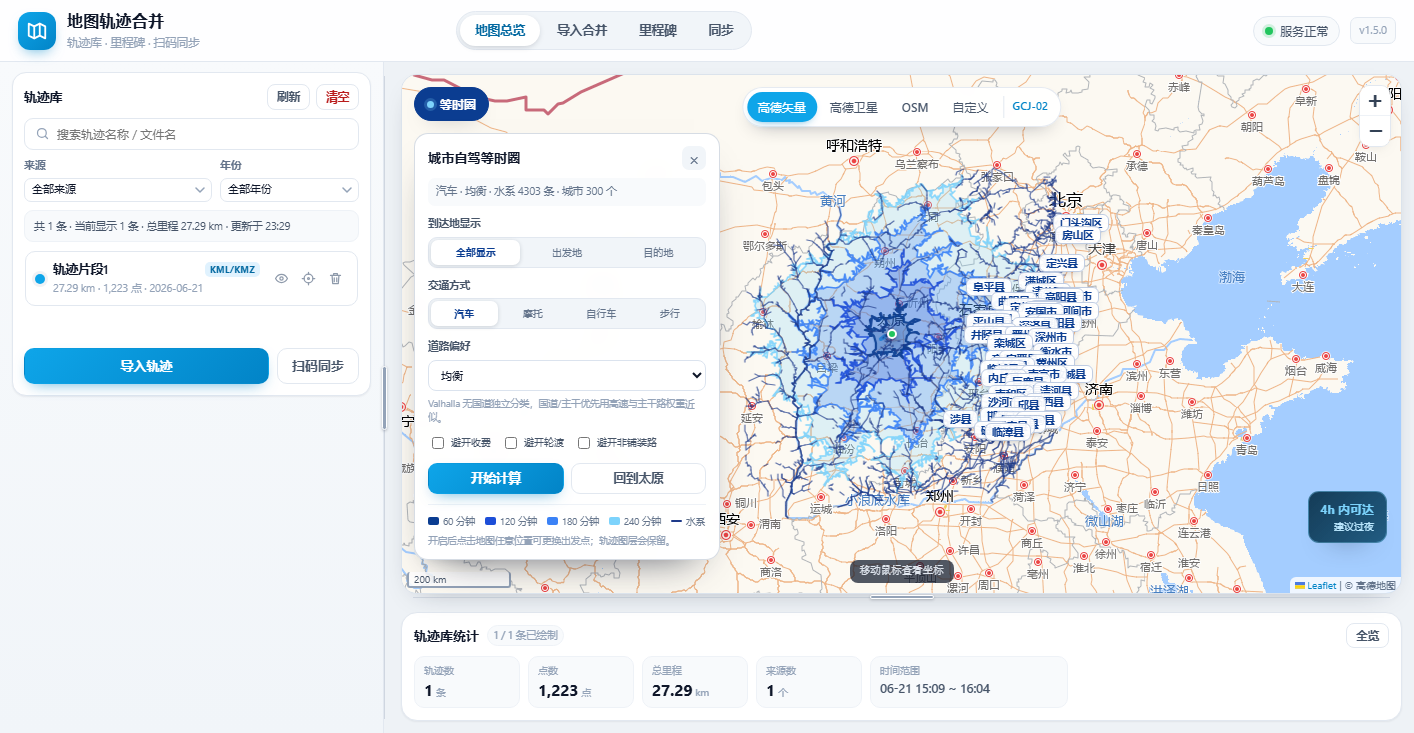
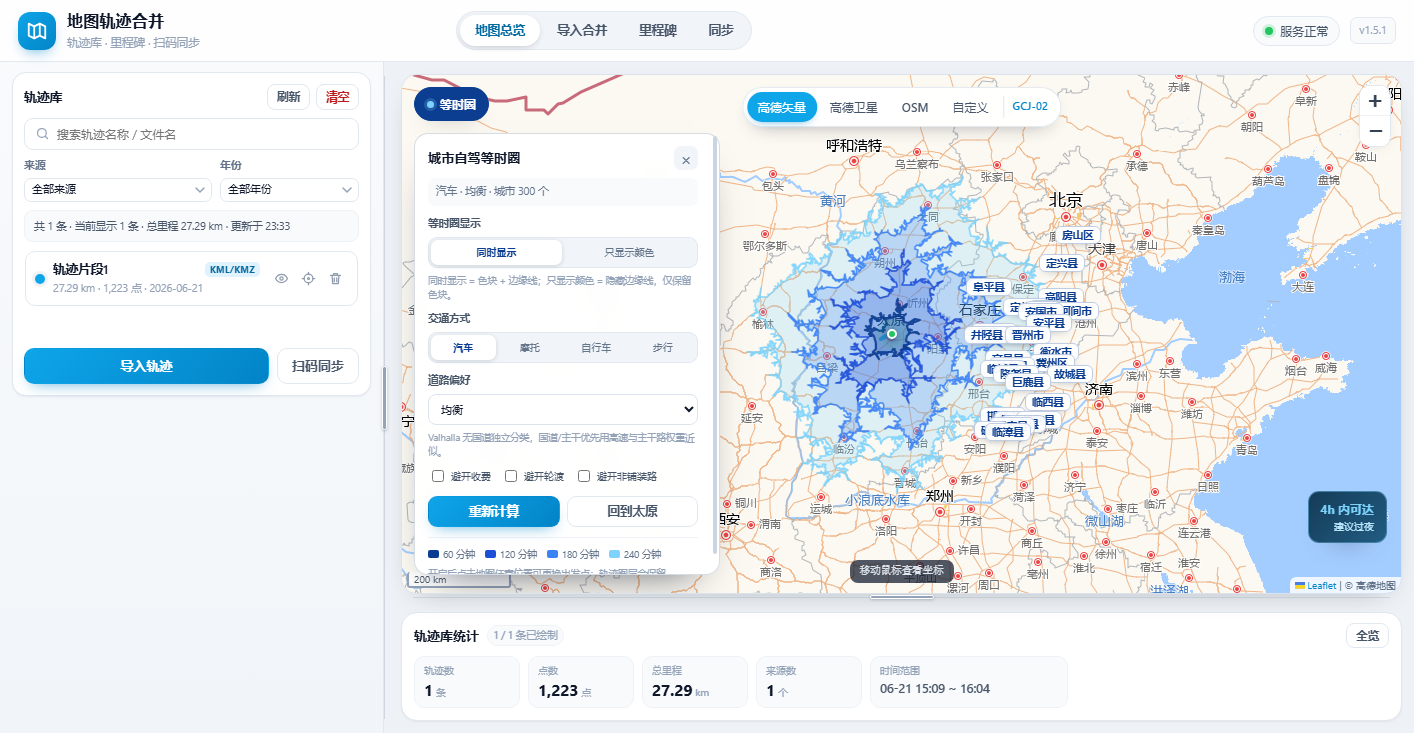
style: 隐藏水系并优化等时圈颜色/边缘渲染（v1.5.1）

Changed region(s): [[0.2801, 0.2401, 0.7779, 0.8104], [0.3423, 0.2401, 0.4356, 0.2701], [0.4979, 0.3302, 0.529, 0.3602]]

diff --git a/web/isochrone-overlay.js b/web/isochrone-overlay.js
@@ -19,9 +19,8 @@
     avoidTolls: false,
     avoidFerries: false,
     avoidUnpaved: false,
-    displayMode: "all",
+    renderMode: "both",
     isoLayers: [],
-    waterLayer: null,
     cityLayer: null,
     startMarker: null,
     cityFeatures: [],
@@ -67,10 +66,10 @@
   }
 
   function readSettings() {
-    var display = document.querySelector('input[name="ovDisplayMode"]:checked');
+    var render = document.querySelector('input[name="ovRenderMode"]:checked');
     var mode = document.querySelector('input[name="ovTravelMode"]:checked');
     var road = $("ovRoadPref");
-    if (display) state.displayMode = display.value;
+    if (render) state.renderMode = render.value;
     if (mode) state.mode = mode.value;
     if (road) state.roadPref = road.value;
     state.avoidTolls = !!($("ovAvoidTolls") && $("ovAvoidTolls").checked);
@@ -143,10 +142,6 @@
     if (!map) return;
     state.isoLayers.forEach(function (layer) { if (map.hasLayer(layer)) map.removeLayer(layer); });
     state.isoLayers = [];
-    if (state.waterLayer) {
-      if (map.hasLayer(state.waterLayer)) map.removeLayer(state.waterLayer);
-      state.waterLayer = null;
-    }
     if (state.cityLayer) {
       if (map.hasLayer(state.cityLayer)) map.removeLayer(state.cityLayer);
       state.cityLayer = null;
@@ -155,25 +150,6 @@
       if (map.hasLayer(state.startMarker)) map.removeLayer(state.startMarker);
       state.startMarker = null;
     }
-  }
-
-  function setLayerVisible(layer, visible) {
-    var map = getMap();
-    if (!map || !layer) return;
-    if (visible) {
-      if (!map.hasLayer(layer)) map.addLayer(layer);
-    } else if (map.hasLayer(layer)) {
-      map.removeLayer(layer);
-    }
-  }
-
-  function applyDisplayMode() {
-    var showIso = state.displayMode !== "origin";
-    var showOrigin = state.displayMode !== "destination";
-    state.isoLayers.forEach(function (layer) { setLayerVisible(layer, showIso); });
-    setLayerVisible(state.waterLayer, showIso);
-    setLayerVisible(state.cityLayer, showIso);
-    setLayerVisible(state.startMarker, showOrigin);
   }
 
   function drawStartMarker() {
@@ -206,13 +182,15 @@
     MINUTES.slice().sort(function (a, b) { return b - a; }).forEach(function (minutes) {
       var list = byMinutes[minutes];
       if (!list || !list.length) return;
+      var colorOnly = state.renderMode === "color";
       var layer = L.geoJSON(
         { type: "FeatureCollection", features: list },
         {
           style: {
+            stroke: !colorOnly,
             color: COLORS[minutes],
-            weight: minutes === 60 ? 2.2 : 1.6,
-            opacity: 0.92,
+            weight: colorOnly ? 0 : (minutes === 60 ? 2.2 : 1.6),
+            opacity: colorOnly ? 0 : 0.92,
             fillColor: COLORS[minutes],
             fillOpacity: 0.23
           }
@@ -220,15 +198,6 @@
       ).addTo(map);
       state.isoLayers.push(layer);
     });
-  }
-
-  function drawWater(features) {
-    var map = getMap();
-    if (!map || !features.length) return;
-    state.waterLayer = L.geoJSON(
-      { type: "FeatureCollection", features: features.map(convertFeature) },
-      { style: { color: "#1e3a8a", weight: 1.25, opacity: 0.7 } }
-    ).addTo(map);
   }
 
   function drawCities(features) {
@@ -244,7 +213,7 @@
     if (zoom < 7.5) {
       list = features.filter(function (f) { return f.properties && f.properties.place === "city"; });
     }
-    list = list.slice(0, zoom < 7.5 ? 50 : 160);
+    list = list.slice(0, zoom < 7.5 ? 30 : 110);
     var markers = [];
     list.forEach(function (feature) {
       var geometry = feature.geometry || {};
@@ -275,13 +244,10 @@
     clearLayers();
     var features = Array.isArray(data.features) ? data.features : [];
     var iso = features.filter(function (f) { return f.properties && f.properties.layer === "isochrone"; });
-    var water = features.filter(function (f) { return f.properties && f.properties.layer === "water"; });
     var cities = features.filter(function (f) { return f.properties && f.properties.layer === "city"; });
     drawIsochrone(iso);
-    drawWater(water);
     drawCities(cities);
     drawStartMarker();
-    applyDisplayMode();
 
     if (fit && data.meta && data.meta.bbox && data.meta.bbox.length === 4) {
       var a = toDisplay(data.meta.bbox[0], data.meta.bbox[1]);
@@ -293,7 +259,7 @@
     setStatus(
       (meta.mode_label || MODE_LABELS[state.mode]) +
         (motorized() ? " · " + (ROAD_LABELS[state.roadPref] || "") : "") +
-        " · 水系 " + (meta.water_count || 0) + " 条 · 城市 " + (meta.city_count || 0) + " 个",
+        " · 城市 " + (meta.city_count || 0) + " 个",
       "ok"
     );
     var badge = $("isoBadge");
@@ -323,7 +289,8 @@
         road_pref: state.roadPref,
         avoid_tolls: state.avoidTolls,
         avoid_ferries: state.avoidFerries,
-        avoid_unpaved: state.avoidUnpaved
+        avoid_unpaved: state.avoidUnpaved,
+        include_water: false
       })
     })
       .then(function (response) {
@@ -372,7 +339,6 @@
         state.lat = wgs[1];
         if (state.startMarker) map.removeLayer(state.startMarker);
         drawStartMarker();
-        applyDisplayMode();
         fetchIsochrone(true);
       });
       state.clickBound = true;
@@ -430,10 +396,12 @@
       fetchIsochrone(true);
     });
 
-    document.querySelectorAll('input[name="ovDisplayMode"]').forEach(function (input) {
+    document.querySelectorAll('input[name="ovRenderMode"]').forEach(function (input) {
       input.addEventListener("change", function () {
         readSettings();
-        applyDisplayMode();
+        if (state.open && state.raw) {
+          render(state.raw, false);
+        }
       });
     });
     document.querySelectorAll('input[name="ovTravelMode"]').forEach(function (input) {
@@ -460,7 +428,6 @@
 
     map.on("zoomend", function () {
       if (state.open && state.cityFeatures.length) drawCities(state.cityFeatures);
-      if (state.open) applyDisplayMode();
     });
 
     // 底图切换会改变显示坐标系（GCJ-02 / WGS-84），需要重新投影等时圈

diff --git a/web/index.html b/web/index.html
@@ -124,15 +124,15 @@
                 <strong>城市自驾等时圈</strong>
                 <button type="button" class="ov-iso-close" id="btnIsoClose" aria-label="关闭等时圈">×</button>
               </div>
-              <div class="ov-iso-status" id="isoStatus">点击“开始计算”在轨迹地图上叠加等时圈</div>
+              <div class="ov-iso-status" id="isoStatus">打开后自动计算，点击地图可更换出发点</div>
 
               <div class="ov-iso-field">
-                <span class="ov-iso-label">到达地显示</span>
+                <span class="ov-iso-label">等时圈显示</span>
                 <div class="ov-iso-seg">
-                  <label><input type="radio" name="ovDisplayMode" value="all" checked><span>全部显示</span></label>
-                  <label><input type="radio" name="ovDisplayMode" value="origin"><span>出发地</span></label>
-                  <label><input type="radio" name="ovDisplayMode" value="destination"><span>目的地</span></label>
+                  <label><input type="radio" name="ovRenderMode" value="both" checked><span>同时显示</span></label>
+                  <label><input type="radio" name="ovRenderMode" value="color"><span>只显示颜色</span></label>
                 </div>
+                <p class="ov-iso-hint">同时显示 = 色块 + 边缘线；只显示颜色 = 隐藏边缘线，仅保留色块。</p>
               </div>
 
               <div class="ov-iso-field">
@@ -163,7 +163,7 @@
               </div>
 
               <div class="ov-iso-actions">
-                <button type="button" class="btn primary small" id="btnIsoCalc">开始计算</button>
+                <button type="button" class="btn primary small" id="btnIsoCalc">重新计算</button>
                 <button type="button" class="btn ghost small" id="btnIsoReset">回到太原</button>
               </div>
 
@@ -172,7 +172,6 @@
                 <span><i style="background:#1d4ed8"></i>120 分钟</span>
                 <span><i style="background:#3b82f6"></i>180 分钟</span>
                 <span><i style="background:#7dd3fc"></i>240 分钟</span>
-                <span><i class="river"></i>水系</span>
               </div>
               <p class="ov-iso-hint">开启后点击地图任意位置可更换出发点；轨迹图层会保留。</p>
             </aside>

diff --git a/app/isochrone.py b/app/isochrone.py
@@ -378,6 +378,7 @@ def _assemble(
     avoid_tolls: bool,
     avoid_ferries: bool,
     avoid_unpaved: bool,
+    include_water: bool = False,
 ) -> dict:
     requested = sorted(minutes)
     iso_features: list[dict] = []
@@ -409,7 +410,7 @@ def _assemble(
     if not bbox:
         raise IsochroneError("无法计算等时圈包围盒", 502)
 
-    water = _filter_water(_get_layer(WATER_FILE), bbox)
+    water = _filter_water(_get_layer(WATER_FILE), bbox) if include_water else []
     cities = _filter_cities(_get_layer(PLACES_FILE), bbox)
     return {
         "ok": True,
@@ -425,6 +426,7 @@ def _assemble(
             "avoid_tolls": avoid_tolls,
             "avoid_ferries": avoid_ferries,
             "avoid_unpaved": avoid_unpaved,
+            "include_water": include_water,
             "bbox": bbox,
             "isochrone_count": len(iso_features),
             "water_count": len(water),
@@ -489,6 +491,8 @@ def isochrone_payload(payload: dict) -> dict:
     avoid_tolls = _as_bool(payload.get("avoid_tolls"))
     avoid_ferries = _as_bool(payload.get("avoid_ferries"))
     avoid_unpaved = _as_bool(payload.get("avoid_unpaved"))
+    # 默认不返回水系，减小响应体积；需要时显式传 include_water=true
+    include_water = _as_bool(payload.get("include_water"), False)
 
     raw_minutes = payload.get("minutes") or DEFAULT_MINUTES
     if not isinstance(raw_minutes, list):
@@ -510,7 +514,17 @@ def isochrone_payload(payload: dict) -> dict:
 
     lat = round(lat, 5)
     lon = round(lon, 5)
-    key = (lat, lon, tuple(minutes), mode, road_pref, avoid_tolls, avoid_ferries, avoid_unpaved)
+    key = (
+        lat,
+        lon,
+        tuple(minutes),
+        mode,
+        road_pref,
+        avoid_tolls,
+        avoid_ferries,
+        avoid_unpaved,
+        include_water,
+    )
     cached = _cache_get(key)
     if cached is not None:
         return cached
@@ -535,6 +549,7 @@ def isochrone_payload(payload: dict) -> dict:
         avoid_tolls,
         avoid_ferries,
         avoid_unpaved,
+        include_water,
     )
     _cache_put(key, result)
     return result

diff --git a/app/api.py b/app/api.py
@@ -15,7 +15,7 @@ from .parsers import FORMAT_LIST, ParseError, parse_file
 from .parsers.common import iso_utc
 from .state import get_library, get_milestones, get_sync
 
-VERSION = "1.5.0"
+VERSION = "1.5.1"
 MAX_FILES = 30
 MAX_TOTAL_POINTS = 2_000_000
 

diff --git a/app/server.py b/app/server.py
@@ -53,7 +53,7 @@ _MIME = {
 
 
 class Handler(BaseHTTPRequestHandler):
-    server_version = "MapTrackMerger/1.5"
+    server_version = "MapTrackMerger/1.5.1"
     sys_version = ""
     protocol_version = "HTTP/1.1"
 

diff --git a/app/__init__.py b/app/__init__.py
@@ -1,3 +1,3 @@
 """地图轨迹合并工具（MapTrackMerger）后端包。"""
 
-__version__ = "1.5.0"
+__version__ = "1.5.1"

diff --git a/README.md b/README.md
@@ -16,10 +16,10 @@ v1.3 起等时圈功能合并进 maptrack-merger；v1.4 增加出行方式与道
 
 - 在「地图总览」地图左上角点击 **「等时圈」**，等时圈图层叠加在当前轨迹地图上，轨迹图层保留
 - 以太原（37.8706, 112.5489）为中心，计算 60/120/180/240 分钟可达范围
-- **到达地显示开关**：全部显示 / 只显示出发地 / 只显示目的地（等时圈可达范围）
+- **等时圈显示**：同时显示（色块 + 边缘）/ 只显示颜色（隐藏边缘线）
 - **交通方式**：汽车、摩托车、自行车、步行，后端切换 Valhalla costing
 - **道路偏好**：高速优先、国道/主干优先、均衡、避开高速；可叠加避开收费、避开轮渡、避开非铺装路
-- 复用现有 Leaflet 地图与底图，叠加 OSM 河流水系、中文城市标注、绿色脉冲起点
+- 复用现有 Leaflet 地图与底图，叠加 OSM 中文城市标注、绿色脉冲起点；水系默认隐藏
 - Valhalla 作为同一个 `docker-compose.yml` 里的可选 `isochrone` profile 运行
 - 默认只下载山西/河北/河南/陕西约 276MB 的省级 OSM 数据，适合 8G–16G 内存的飞牛 NAS
 - 数据构建脚本在 [`scripts/isochrone/`](scripts/isochrone/)，部署步骤见下方「等时圈部署」
@@ -667,7 +667,7 @@ docker compose up -d           # 用新镜像重启容器
 docker compose down
 
 # 2. 删除镜像（可选）
-docker rmi maptrack-merger:1.5.0
+docker rmi maptrack-merger:1.5.1
 
 # 3. 删除整个项目文件夹（含 data/，轨迹库与同步文件都在其中；如需保留请先备份 data 目录）
 ```

diff --git a/CHANGELOG.md b/CHANGELOG.md
@@ -1,5 +1,20 @@
 # 更新日志
 
+## v1.5.1 — 2026-11-05
+
+### 调整
+
+- **隐藏水系图层**：等时圈叠加不再绘制河流/运河线条；API 默认 `include_water=false`，响应体积明显减小。
+- **等时圈显示选项改为渲染样式**：`同时显示`（色块 + 边缘线）/ `只显示颜色`（隐藏边缘线，仅保留色块）。
+- 低缩放级别城市标签数量从 50 降到 30，高缩放从 160 降到 110，减少重叠。
+- 面板文案与图例同步移除水系。
+
+### 保留
+
+- 交通方式、道路偏好、避让选项、出发地点击、轨迹图层保留等能力不变。
+
+---
+
 ## v1.5.0 — 2026-11-05
 
 ### 变更
